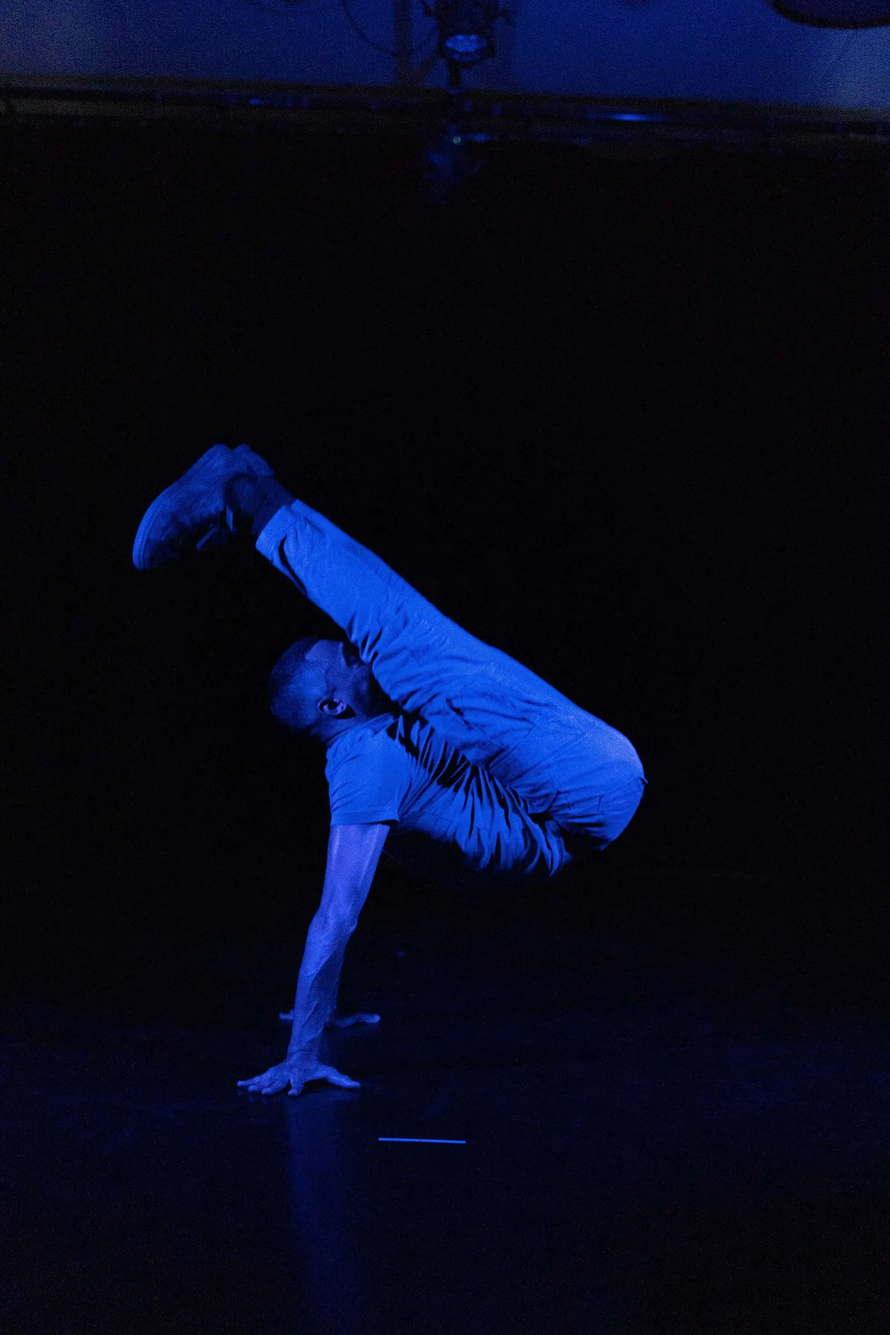
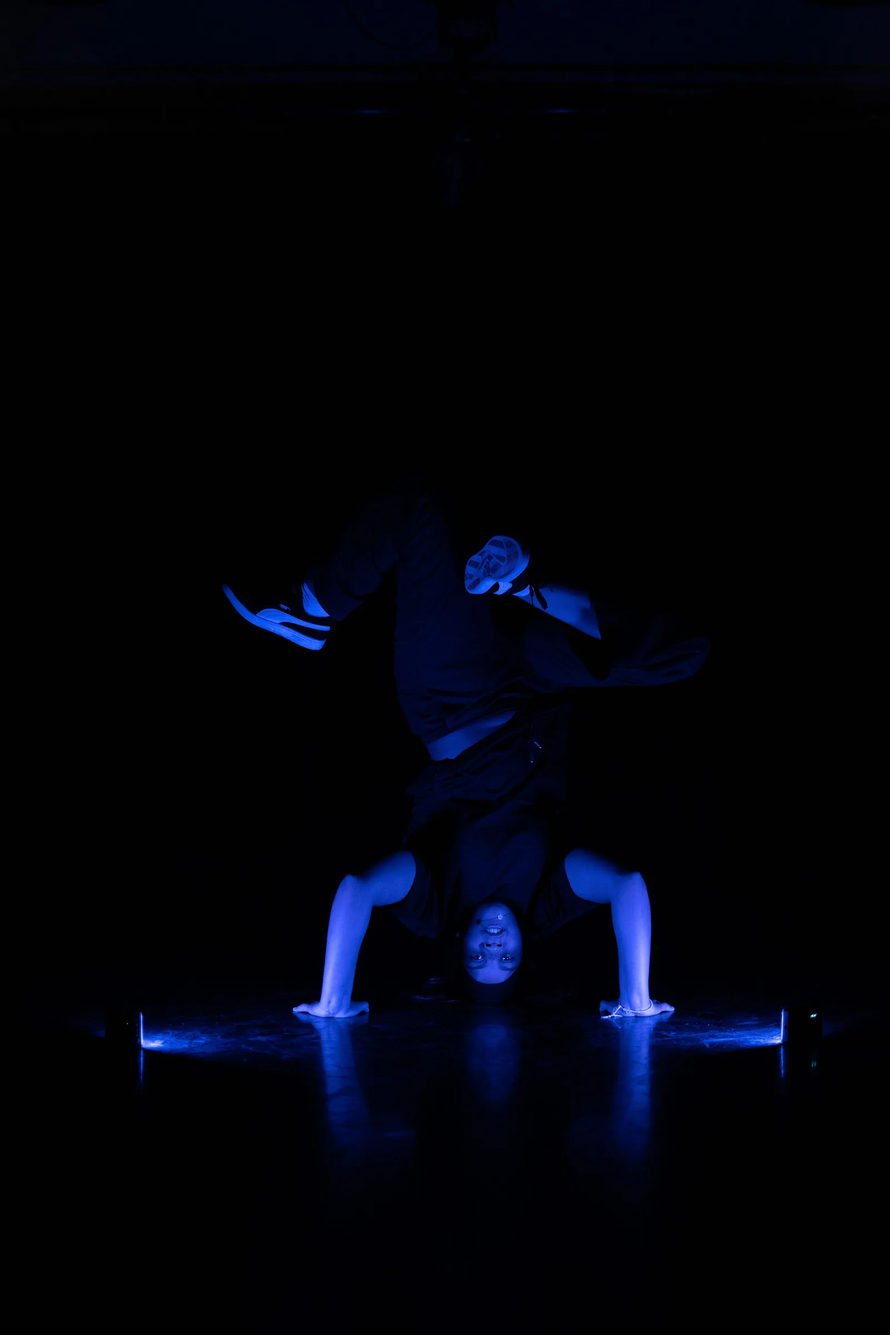
WINDOWS gallery: Raphaël picks THT-195, THT-24, THT-52 (tile THT-232)
Hero/OG unchanged (THT-104). Home WINDOWS tile stays on tile.webp from THT-232.

diff --git a/scripts/optimize_windows_from_onedrive.py b/scripts/optimize_windows_from_onedrive.py
@@ -14,13 +14,13 @@ SRC = Path("/tmp/windows-photos-jay")
 TARGET_KB = 200
 MAX_WIDTH = 1600
 
-# Curated picks (Jay folder) — see PR report for rationale.
+# Raphaël picks (Photos JAY).
 FILES = [
     ("hero", "THT-104.jpg"),
     ("og-windows", "THT-104.jpg"),
-    ("g01", "THT-199.jpg"),
-    ("g02", "THT-232.jpg"),
-    ("g03", "THT-263.jpg"),
+    ("g01", "THT-195.jpg"),
+    ("g02", "THT-24.jpg"),
+    ("g03", "THT-52.jpg"),
 ]
 TILE = "THT-232.jpg"
 
